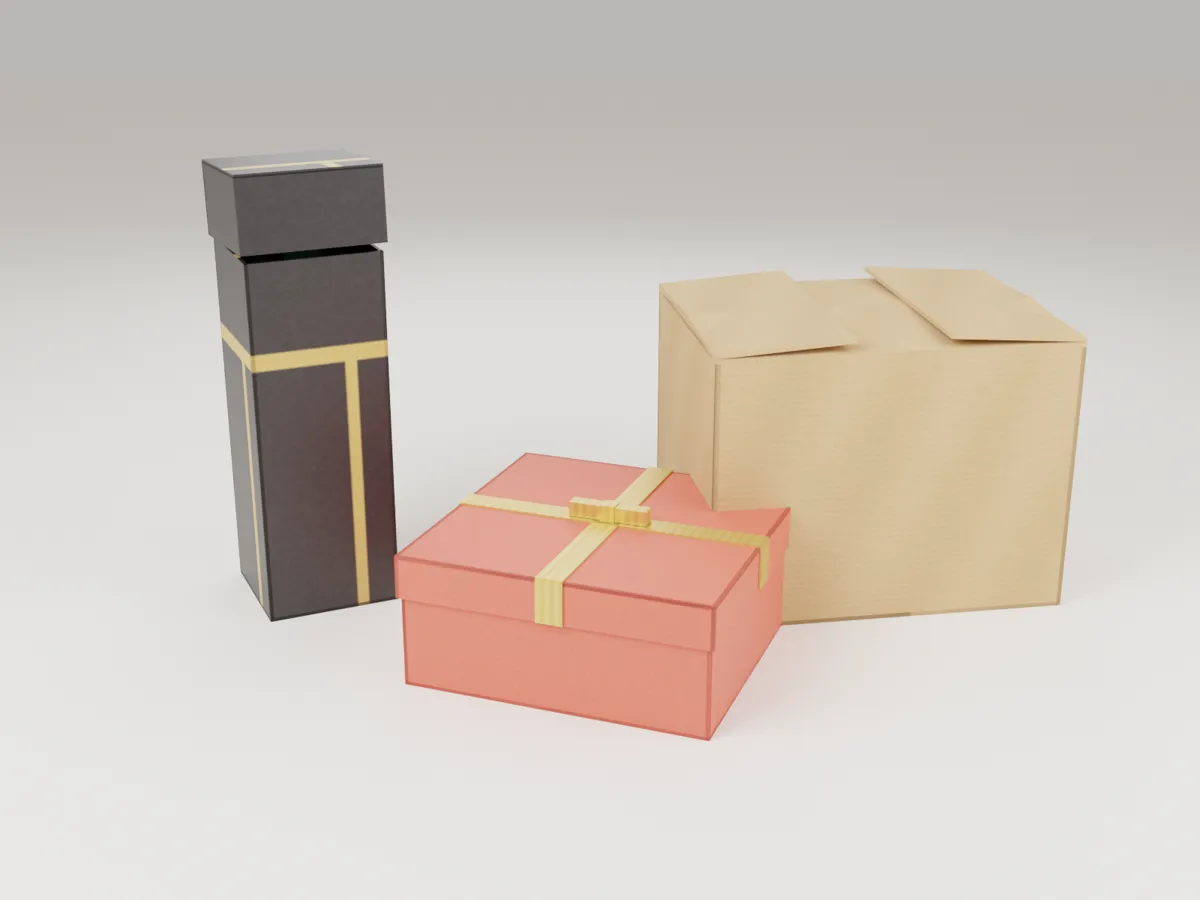
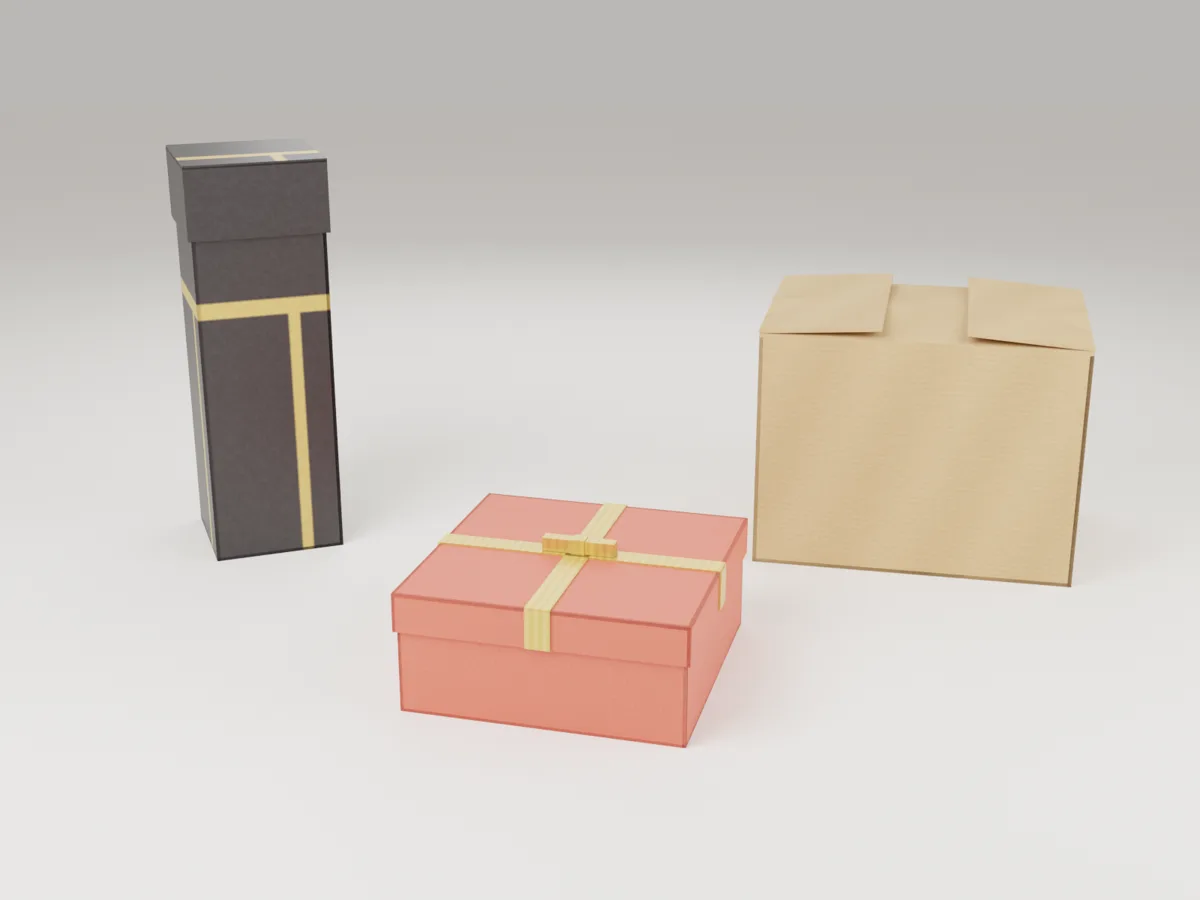
fix(design): re-render hero (separated boxes, seated wine lid), SEO alt en/ru

Changed region(s): [[0.1233, 0.1556, 0.925, 0.84]]

diff --git a/src/app/[locale]/page.tsx b/src/app/[locale]/page.tsx
@@ -31,7 +31,7 @@ export default async function Home({ params }: { params: Promise<{ locale: strin
             <Link className="btn ghost" href="/products">{t('cta')}</Link>
           </div>
         </div>
-        <Image className="hero-img" src="/images/hero/custom-printing-packaging-manufacturer.webp" alt="Custom wine box, gift box and corrugated shipping box by PackJoyU" width={1200} height={900} priority sizes="(max-width: 900px) 100vw, 45vw" />
+        <Image className="hero-img" src="/images/hero/custom-printing-packaging-manufacturer.webp" alt={locale === 'ru' ? 'Индивидуальные винные коробки с печатью, подарочные коробки и гофрокоробки для доставки от PackJoyU' : 'Custom printed wine boxes, gift boxes and corrugated shipping boxes by PackJoyU'} width={1200} height={900} priority sizes="(max-width: 900px) 100vw, 45vw" />
       </section>
 
       <section className="block container" aria-labelledby="adv-h">
